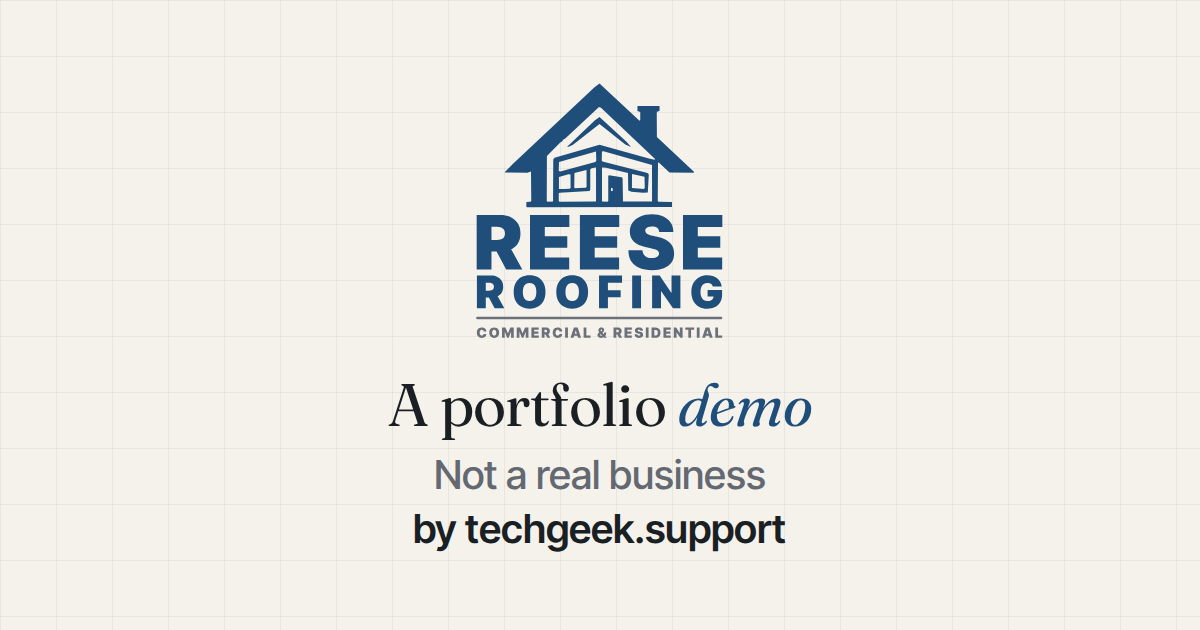
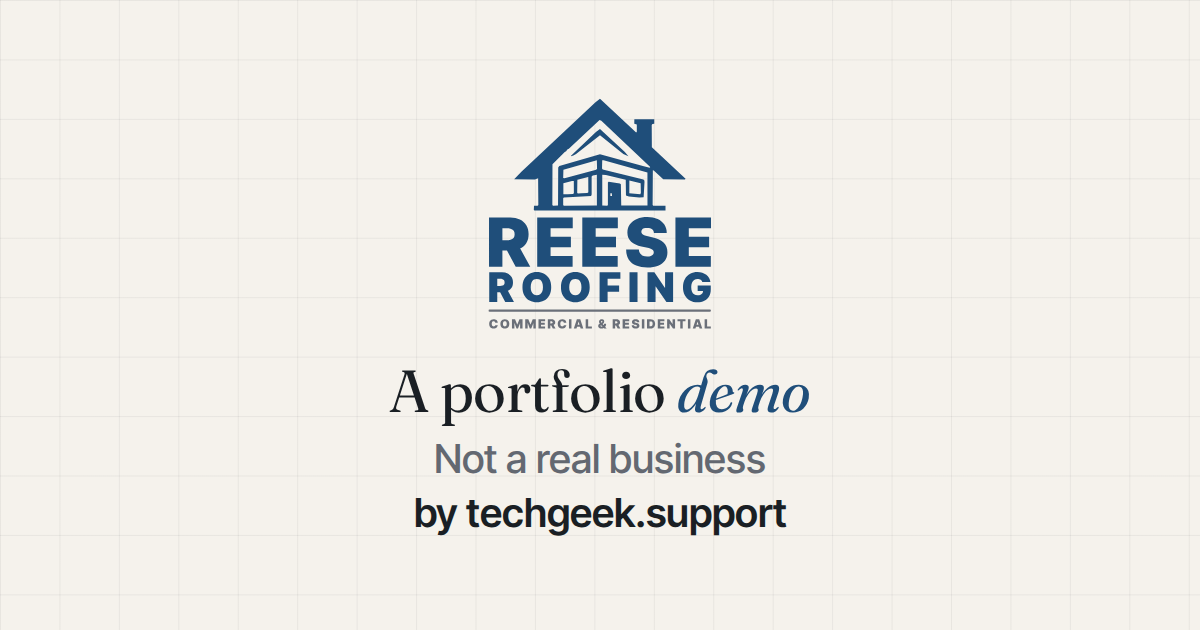
What: Preview Card On The Site's Tokens. Why: The social preview card copied the site's colors and fonts as literals, and the new rule has it read the site's scale wherever a step is within 10%. How: The card imports the site's font and global stylesheets, reads the color, font, spacing, rhythm, and

Changed region(s): [[0.3083, 0.573, 0.6783, 0.8746], [0.37, 0.1206, 0.6167, 0.5429]]

diff --git a/design/og-image/card.html b/design/og-image/card.html
@@ -21,61 +21,24 @@
 
 		<!-- #region Card Styles -->
 
-		<style>/* What: Card Style Element. Why: The card is one fixed-size image, styled entirely here. How: This loads the site's fonts and lays the card out in pixels, the one unit a 1,200x630 image is measured in. */
+		<style>/* What: Card Style Element. Why: The card is one fixed-size image, styled here from the site's own fonts and tokens. How: This imports the site's font faces and global stylesheet, then lays the card out on the site's scale, keeping literal pixels only where the scale has no step within 10%. */
 
 
-			@font-face { /* What: Fraunces Upright Face. Why: The card's heading uses the site's display serif. How: This loads the site's own variable font file. */
-
-
-				font-family : 'Fraunces';
-				font-weight : 100 900;
-				src         : url( '../../src/assets/fonts/Fraunces-VariableFont_opsz,wght.woff2' ) format( 'woff2' );
-
-
-			}
-
-			@font-face { /* What: Fraunces Italic Face. Why: The heading's accent word is set in italic, as on the site. How: This loads the italic variable font file. */
-
-
-				font-family : 'Fraunces';
-				font-style  : italic;
-				font-weight : 100 900;
-				src         : url( '../../src/assets/fonts/Fraunces-Italic-VariableFont_opsz,wght.woff2' ) format( 'woff2' );
-
-
-			}
-
-			@font-face { /* What: Inter Tight Face. Why: The card's smaller lines use the site's main sans serif. How: This loads its variable font file. */
-
-
-				font-family : 'Inter Tight';
-				font-weight : 100 900;
-				src         : url( '../../src/assets/fonts/InterTight-VariableFont_wght.woff2' ) format( 'woff2' );
-
-
-			}
-
-			html,
-			body { /* What: Page Root. Why: The capture should hold the card and nothing around it. How: This clears the browser's default margin. */
-
-
-				margin : 0;
-
-
-			}
+			@import url( '../../src/styles/fonts.css' );  /* What: Site Fonts Import. Why: The card should be set in the site's own typefaces. How: This loads the site's font faces, whose file paths resolve from fonts.css itself. */
+			@import url( '../../src/styles/styles.css' ); /* What: Site Styles Import. Why: The card should read the site's colors and scale rather than copies of them. How: This loads the global tokens and base element styles, which also make 1rem the site's 11px base. */
 
 
 
 			/* #region carBodBod */
 
-			.carBodBod { /* What: Card Body Body. Why: The card fills the whole 1,200x630 capture in the site's paper and ink. How: This sizes it and centers its single column. */
+			.carBodBod { /* What: Card Body Body. Why: The card fills the whole 1,200x630 capture in the site's paper and ink. How: This sizes it in literal pixels, the image's own fixed size, and centers its single column. */
 
 
 				align-items     : center;
-				background      : #f5f2ec;
-				color           : #1a1f24;
+				background      : var( --bac-pag-col ); /* Background Page Color = #f5f2ec */
+				color           : var( --tex-mai-col ); /* Text Main Color = #1a1f24 */
 				display         : flex;
-				font-family     : 'Inter Tight', sans-serif;
+				font-family     : var( --fon-fam-mai ); /* Font Family Main = 'Inter Tight', -apple-system, BlinkMacSystemFont, sans-serif */
 				height          : 630px;
 				justify-content : center;
 				overflow        : hidden;
@@ -84,11 +47,11 @@
 
 
 			}
-			.carBodBod::before { /* What: Card Body Body Grid Lines. Why: The hero's faint drafting grid ties the card to the site. How: This lays two repeating hairline gradients across the whole card. */
+			.carBodBod::before { /* What: Card Body Body Grid Lines. Why: The hero's faint drafting grid ties the card to the site. How: This lays two repeating hairline gradients, one rhythm step apart, across the whole card. */
 
 
-				background-image : linear-gradient( rgba( 26, 31, 36, 0.06 ) 1px, transparent 1px ), linear-gradient( 90deg, rgba( 26, 31, 36, 0.06 ) 1px, transparent 1px );
-				background-size  : 56px 56px;
+				background-image : linear-gradient( oklch( from var( --tex-mai-col ) l c h / var( --cdn-pow-010-rec ) ) var( --bor-wid-bas ), transparent var( --bor-wid-bas ) ), linear-gradient( 90deg, oklch( from var( --tex-mai-col ) l c h / var( --cdn-pow-010-rec ) ) var( --bor-wid-bas ), transparent var( --bor-wid-bas ) ); /* Text Main Color = #1a1f24, Core-Design-Number to the Power of 10 Reciprocal ~= 0.060, Border Width Base ~= 1.160px */
+				background-size  : calc( var( --ver-rhy-p05 ) * 1rem ) calc( var( --ver-rhy-p05 ) * 1rem ); /* Vertical Rhythm Base Plus 5 ~= 59.447px */
 				content          : '';
 				inset            : 0;
 				position         : absolute;
@@ -111,11 +74,11 @@
 
 			}
 
-			.carLogIma { /* What: Card Logo Image. Why: The full logo is what makes the card recognizable at a glance. How: This sets it at a height that leaves room for the lines below. */
+			.carLogIma { /* What: Card Logo Image. Why: The full logo is what makes the card recognizable at a glance. How: This sets it at a rhythm step tall enough to lead the card while leaving room for the lines below. */
 
 
 				display : block;
-				height  : 268px;
+				height  : calc( var( --ver-rhy-p10 ) * 1rem ); /* Vertical Rhythm Base Plus 10 ~= 242.517px */
 
 
 			}
@@ -126,11 +89,11 @@
 			.carTitPar { /* What: Card Title Paragraph. Why: The card's main line says what the site is. How: This sets it large in the display serif. */
 
 
-				font-family    : 'Fraunces', serif;
-				font-size      : 60px;
+				font-family    : var( --fon-fam-sec );     /* Font Family Secondary = 'Fraunces', 'Times New Roman', serif */
+				font-size      : var( --fon-siz-p06 );     /* Font Size Base Plus 6 ~= 59.447px */
 				letter-spacing : -0.01em;
-				line-height    : 1.1;
-				margin         : 26px 0 0;
+				line-height    : var( --ver-rhy-m01 );     /* Vertical Rhythm Base Minus 1 = 1 */
+				margin         : var( --spa-ver-p02 ) 0 0; /* Spacing Vertical Base Plus 2 ~= 25.572px */
 
 
 			}
@@ -138,7 +101,7 @@
 			.carAccEmp { /* What: Card Accent Emphasis. Why: The accent word picks up the logo's navy, as italic accents do on the site. How: This colors it. */
 
 
-				color : #1f4e7a;
+				color : var( --acc-mai-col ); /* Accent Main Color = #1f4e7a */
 
 
 			}
@@ -146,14 +109,14 @@
 			/* #endregion carTitPar */
 
 
-			.carNotPar { /* What: Card Notice Paragraph. Why: The card must say plainly that the company isn't real. How: This sets the notice in muted gray, large enough to read at thumbnail size. */
+			.carNotPar { /* What: Card Notice Paragraph. Why: The card must say plainly that the company isn't real. How: This sets the notice in muted gray at 40px, large enough to read at thumbnail size, a size the font scale has no step near. */
 
 
-				color       : #636871;
+				color       : var( --tex-mut-col );     /* Text Muted Color = #636871 */
 				font-size   : 40px;
 				font-weight : 500;
 				line-height : 1.2;
-				margin      : 14px 0 0;
+				margin      : var( --spa-ver-bas ) 0 0; /* Spacing Vertical Base ~= 14.572px */
 
 
 			}
@@ -164,7 +127,7 @@
 				font-size   : 40px;
 				font-weight : 600;
 				line-height : 1.2;
-				margin      : 6px 0 0;
+				margin      : var( --spa-ver-m03 ) 0 0; /* Spacing Vertical Base Minus 3 ~= 6.268px */
 
 
 			}

diff --git a/CLAUDE.md b/CLAUDE.md
@@ -26,7 +26,11 @@ isn't a real business, so it gets the demo treatment rather than local SEO:
   `design/og-image/card.html` (outside the served tree) is captured by `npm
   run og-image` (`design/og-image/render.mts`, type checked through
   `tsconfig.test.json`, since it drives a browser) into `public/og-image.png`,
-  with every element inside the center 630x630 square.
+  with every element inside the center 630x630 square. The card imports the
+  site's `fonts.css` and `styles.css` and reads their tokens; only its
+  1200x630 size, its 40px lines, their 1.2 line height and weights, and the
+  title's -0.01em letter spacing stay literal, since the scale has no step
+  within 10% of them.
 - **Structured data**: one `WebSite` JSON-LD block about a fictional company,
   created by techgeek.support. Never `LocalBusiness`, an address, or a phone.
 - **Placeholders stay reserved**: the phone is a 555-01xx number and the
